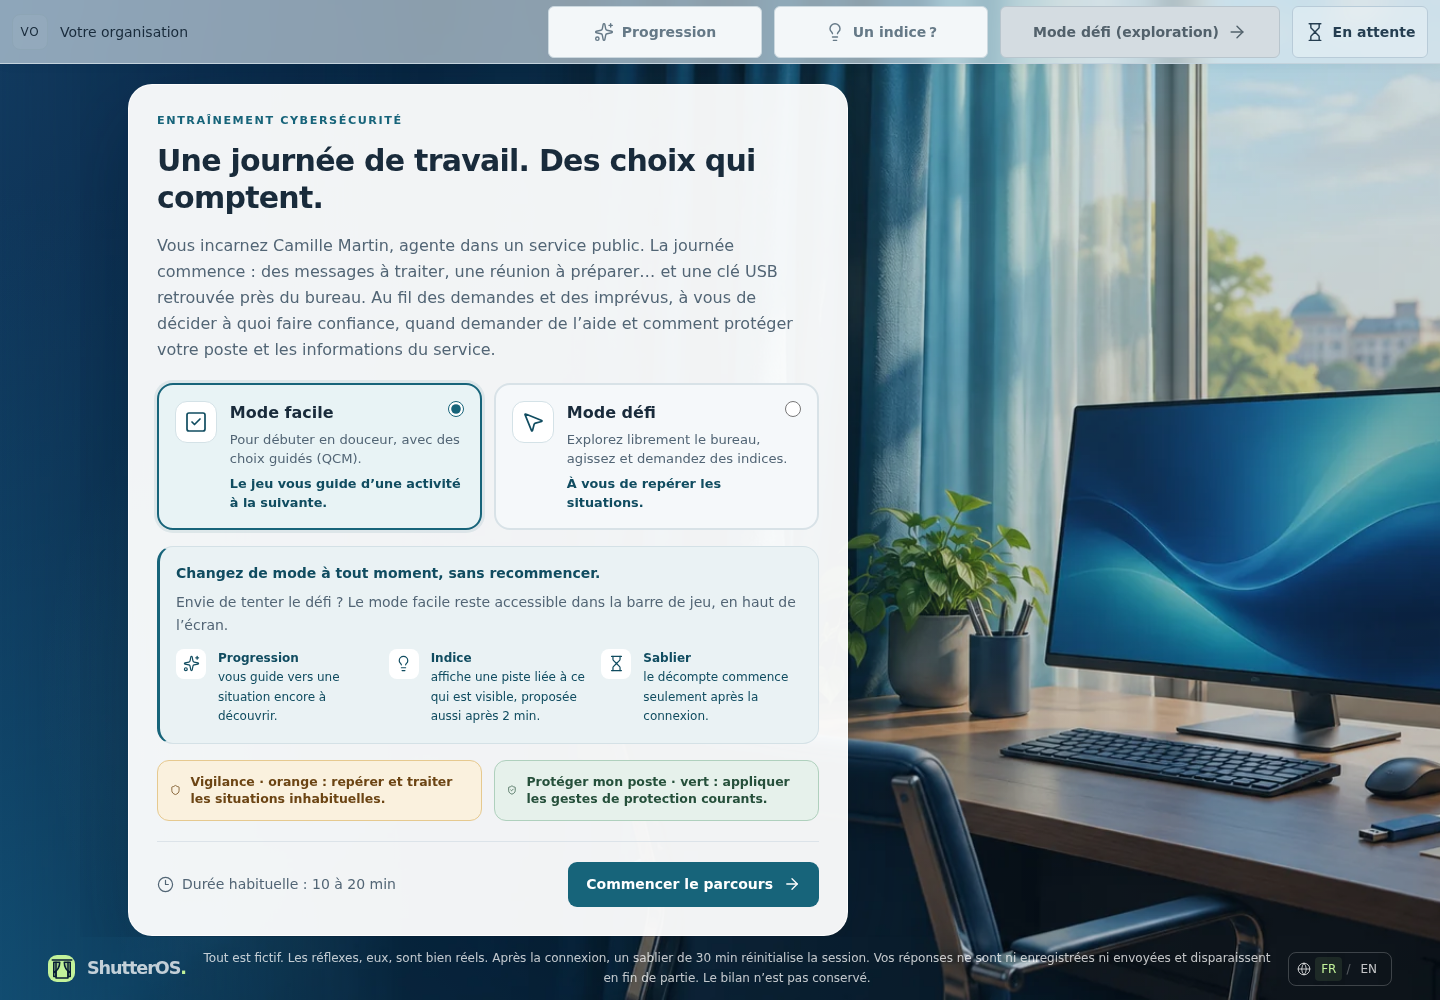
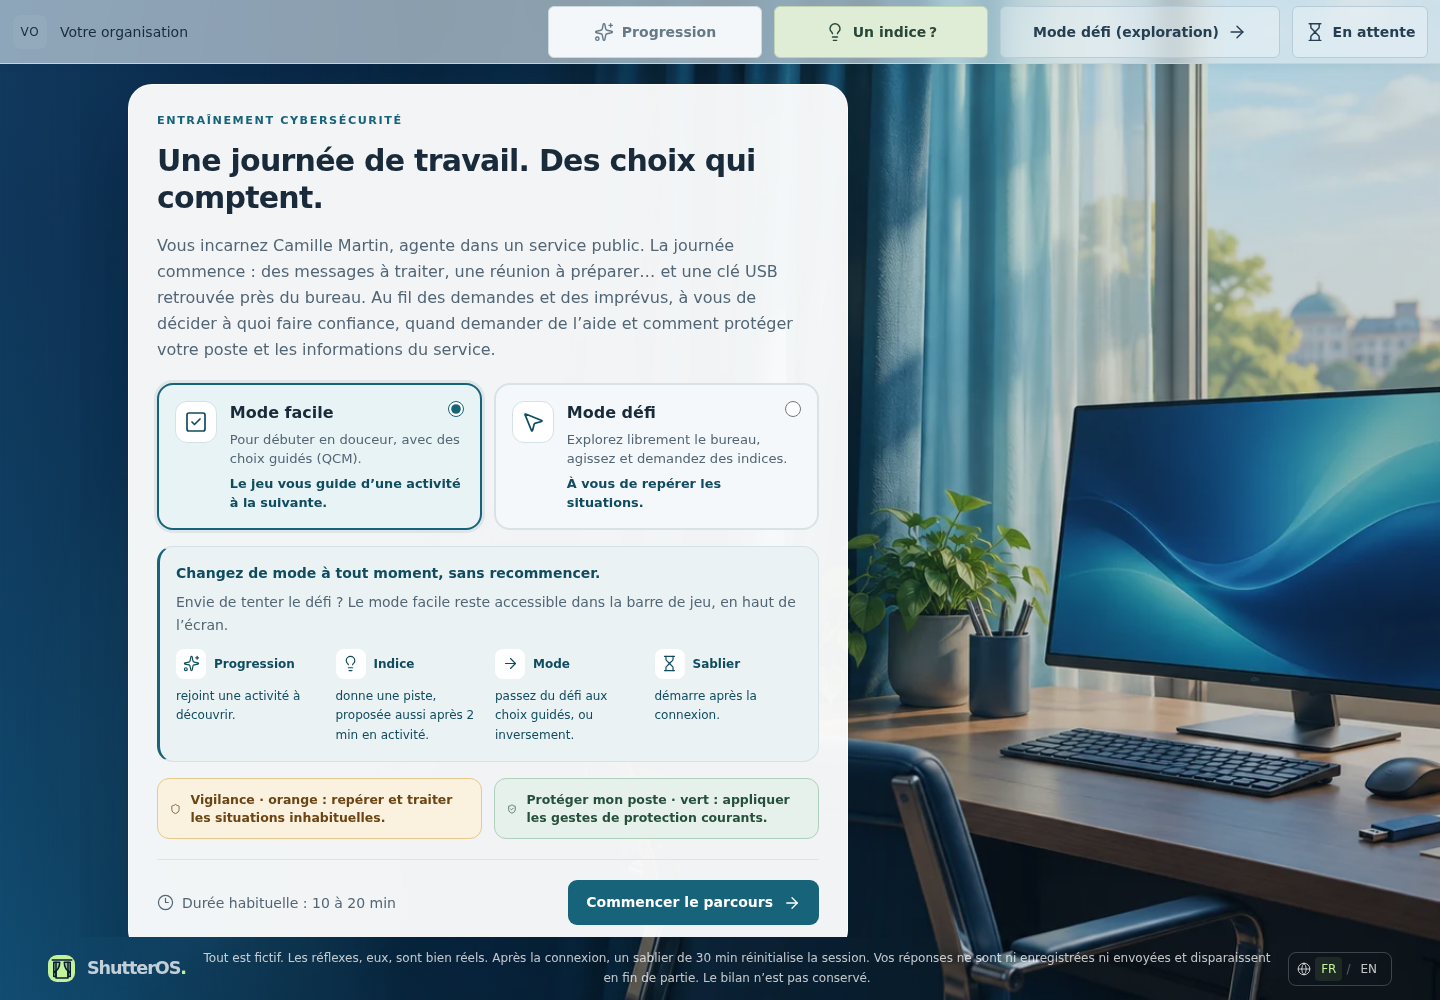
feat(onboarding): activate the game bar on the welcome screen

diff --git a/packages/components/src/screens/Welcome.svelte b/packages/components/src/screens/Welcome.svelte
@@ -6,6 +6,7 @@
   import type { Branding } from './branding';
   import GameTopbar from '../commons/GameTopbar.svelte';
   import OnboardingControls from '../commons/OnboardingControls.svelte';
+  import FloatingWindow from '../commons/FloatingWindow.svelte';
   import Icon from '../commons/Icon.svelte';
   import Language from '../commons/Language.svelte';
   import Brand from '../commons/Brand.svelte';
@@ -27,6 +28,19 @@
   } = $props();
   const i18n = getI18n();
   const copy = $derived(i18n.text);
+  const controlIcons = ['sparkles', 'light', 'arrow', 'hourglass'] as const;
+  let onboardingControls: { focusHint: () => void };
+  let hintVisible = $state(false);
+  let hintSeen = $state(false);
+
+  function toggleHint() {
+    hintVisible = !hintVisible;
+    hintSeen = true;
+  }
+  function minimizeHint() {
+    hintVisible = false;
+    onboardingControls.focusHint();
+  }
 
   function selectMode(mode: PlayMode) {
     dispatch({ type: 'set-mode', mode });
@@ -36,7 +50,14 @@
 <main class="welcome-screen wallpaper relative flex min-h-dvh flex-col overflow-hidden">
   <div class="wallpaper-orbit" aria-hidden="true"></div>
   {#snippet controls()}
-    <OnboardingControls mode={snapshot.mode} />
+    <OnboardingControls
+      bind:this={onboardingControls}
+      mode={snapshot.mode}
+      onMode={() => selectMode(snapshot.mode === 'guided' ? 'free' : 'guided')}
+      onHint={toggleHint}
+      {hintVisible}
+      {hintSeen}
+    />
   {/snippet}
   <GameTopbar
     {config}
@@ -47,98 +68,118 @@
   />
 
   <img class="welcome-hero" src={welcomeHero} alt="" aria-hidden="true" />
-  <div
-    class="welcome-body relative z-10 mx-auto grid w-full max-w-[1280px] flex-1 items-center px-5 py-5 sm:px-9 lg:grid-cols-[minmax(0,720px)_1fr] lg:px-12"
-  >
-    <section class="welcome-panel rounded-3xl p-5 sm:p-7">
-      <p class="eyebrow text-accent">{copy.welcome.eyebrow}</p>
-      <h1
-        class="mt-3 max-w-[680px] text-3xl leading-tight font-semibold tracking-tight sm:text-3xl"
-      >
-        {copy.welcome.title}
-      </h1>
-      <p class="text-muted mt-4 max-w-[650px] text-base leading-relaxed">
-        {copy.welcome.description(config.playerName)}
-      </p>
-      <div
-        class="mt-5 grid gap-3 sm:grid-cols-2"
-        role="radiogroup"
-        aria-label={copy.welcome.choose}
-      >
-        {#each ['guided', 'free'] as const as mode (mode)}
-          <label class="mode-card text-left" class:selected={snapshot.mode === mode}>
-            <input
-              class="mode-selection"
-              type="radio"
-              name="play-mode"
-              value={mode}
-              checked={snapshot.mode === mode}
-              onchange={() => selectMode(mode)}
-            />
-            <span class="mode-icon"
-              ><Icon name={mode === 'guided' ? 'checkbox' : 'cursor'} size={24} /></span
-            >
-            <strong
-              >{mode === 'guided' ? copy.welcome.guided.title : copy.welcome.free.title}</strong
-            >
-            <span
-              >{mode === 'guided'
-                ? copy.welcome.guided.description
-                : copy.welcome.free.description}</span
-            >
-            <small
-              >{mode === 'guided' ? copy.welcome.guided.detail : copy.welcome.free.detail}</small
-            >
-          </label>
-        {/each}
-      </div>
-
-      <aside
-        class="topbar-explainer mode-reassurance mt-4 rounded-2xl p-4"
-        aria-label={copy.welcome.controls.title}
-      >
-        <p class="text-sm font-semibold">{copy.welcome.switchTitle}</p>
-        <p class="text-muted mt-2 text-sm leading-relaxed">{copy.welcome.switchDetail}</p>
-        <div class="mt-3 grid gap-3 sm:grid-cols-3">
-          {#each copy.welcome.controls.items as item, index (item.title)}
-            <div class="flex gap-3">
-              <span class="explainer-icon"
-                ><Icon
-                  name={index === 0 ? 'sparkles' : index === 1 ? 'light' : 'hourglass'}
-                  size={17}
-                /></span
+  <div class="relative z-10 flex min-h-0 flex-1">
+    <div
+      class="welcome-body relative z-10 mx-auto grid w-full max-w-[1280px] flex-1 items-center px-5 py-5 sm:px-9 lg:grid-cols-[minmax(0,720px)_1fr] lg:px-12"
+    >
+      <section class="welcome-panel rounded-3xl p-5 sm:p-7">
+        <p class="eyebrow text-accent">{copy.welcome.eyebrow}</p>
+        <h1
+          class="mt-3 max-w-[680px] text-3xl leading-tight font-semibold tracking-tight sm:text-3xl"
+        >
+          {copy.welcome.title}
+        </h1>
+        <p class="text-muted mt-4 max-w-[650px] text-base leading-relaxed">
+          {copy.welcome.description(config.playerName)}
+        </p>
+        <div
+          class="mt-5 grid gap-3 sm:grid-cols-2"
+          role="radiogroup"
+          aria-label={copy.welcome.choose}
+        >
+          {#each ['guided', 'free'] as const as mode (mode)}
+            <label class="mode-card text-left" class:selected={snapshot.mode === mode}>
+              <input
+                class="mode-selection"
+                type="radio"
+                name="play-mode"
+                value={mode}
+                checked={snapshot.mode === mode}
+                onchange={() => selectMode(mode)}
+              />
+              <span class="mode-icon"
+                ><Icon name={mode === 'guided' ? 'checkbox' : 'cursor'} size={24} /></span
               >
-              <p class="text-xs leading-relaxed">
-                <strong class="block">{item.title}</strong>{item.detail}
-              </p>
-            </div>
+              <strong
+                >{mode === 'guided' ? copy.welcome.guided.title : copy.welcome.free.title}</strong
+              >
+              <span
+                >{mode === 'guided'
+                  ? copy.welcome.guided.description
+                  : copy.welcome.free.description}</span
+              >
+              <small
+                >{mode === 'guided' ? copy.welcome.guided.detail : copy.welcome.free.detail}</small
+              >
+            </label>
           {/each}
         </div>
-      </aside>
-      <div class="welcome-families mt-4 grid gap-3 sm:grid-cols-2">
-        <p class="family-note" data-family="vigilance">
-          <Icon name="shield" size={18} />{copy.welcome.families.vigilance}
-        </p>
-        <p class="family-note" data-family="protection">
-          <Icon name="secure" size={18} />{copy.welcome.families.protection}
-        </p>
-      </div>
-      {#if snapshot.reason === 'expired'}
-        <p class="welcome-reset mt-5 text-sm" role="status">
-          {copy.welcome.expired}
-        </p>
-      {/if}
-      <div class="welcome-start mt-5 border-t border-[var(--line)] pt-5">
-        <div class="flex flex-wrap items-center justify-between gap-4">
-          <span class="text-muted flex items-center gap-2 text-sm">
-            <Icon name="clock" size={17} />{copy.welcome.duration}
-          </span>
-          <button class="button button-primary ml-auto" onclick={() => dispatch({ type: 'begin' })}>
-            {copy.welcome.begin}<Icon name="arrow" size={18} />
-          </button>
+
+        <aside
+          class="topbar-explainer mode-reassurance mt-4 rounded-2xl p-4"
+          aria-label={copy.welcome.controls.title}
+        >
+          <p class="text-sm font-semibold">{copy.welcome.switchTitle}</p>
+          <p class="text-muted mt-2 text-sm leading-relaxed">{copy.welcome.switchDetail}</p>
+          <div class="mt-3 grid gap-3 sm:grid-cols-2 lg:grid-cols-4">
+            {#each copy.welcome.controls.items as item, index (item.title)}
+              <div>
+                <div class="mb-2 flex items-center gap-2">
+                  <span class="explainer-icon"
+                    ><Icon name={controlIcons[index] ?? 'help'} size={17} /></span
+                  >
+                  <strong class="text-xs">{item.title}</strong>
+                </div>
+                <p class="text-xs leading-relaxed">{item.detail}</p>
+              </div>
+            {/each}
+          </div>
+        </aside>
+        <div class="welcome-families mt-4 grid gap-3 sm:grid-cols-2">
+          <p class="family-note" data-family="vigilance">
+            <Icon name="shield" size={18} />{copy.welcome.families.vigilance}
+          </p>
+          <p class="family-note" data-family="protection">
+            <Icon name="secure" size={18} />{copy.welcome.families.protection}
+          </p>
         </div>
-      </div>
-    </section>
+        {#if snapshot.reason === 'expired'}
+          <p class="welcome-reset mt-5 text-sm" role="status">
+            {copy.welcome.expired}
+          </p>
+        {/if}
+        <div class="welcome-start mt-5 border-t border-[var(--line)] pt-5">
+          <div class="flex flex-wrap items-center justify-between gap-4">
+            <span class="text-muted flex items-center gap-2 text-sm">
+              <Icon name="clock" size={17} />{copy.welcome.duration}
+            </span>
+            <button
+              class="button button-primary ml-auto"
+              onclick={() => dispatch({ type: 'begin' })}
+            >
+              {copy.welcome.begin}<Icon name="arrow" size={18} />
+            </button>
+          </div>
+        </div>
+      </section>
+    </div>
+    {#if hintSeen}
+      <FloatingWindow
+        kind="hint"
+        title={copy.shell.guide}
+        icon="light"
+        isHidden={!hintVisible}
+        minimizeLabel={copy.guidance.minimize}
+        onMinimize={minimizeHint}
+        onClose={minimizeHint}
+        closeLabel={copy.challenge.hideHint}
+      >
+        <p class="hint-content" role="status">{copy.welcome.hint}</p>
+        <div class="px-4 pb-4 pt-2">
+          <button class="guidance-trigger" onclick={minimizeHint}>{copy.challenge.hideHint}</button>
+        </div>
+      </FloatingWindow>
+    {/if}
   </div>
   <footer
     class="welcome-footer relative z-10 flex flex-wrap items-center justify-between gap-4 px-5 py-3 text-xs text-white/75 sm:px-9 lg:px-12"

diff --git a/tests/e2e/onboarding.spec.ts b/tests/e2e/onboarding.spec.ts
@@ -31,6 +31,27 @@ for (const locale of ['fr', 'en'] as const) {
           .locator('.welcome-hero')
           .evaluate((image: HTMLImageElement) => image.naturalWidth),
       ).toBeGreaterThan(0);
+      await expect(
+        page.getByRole('button', { name: copy.welcome.controls.progress, exact: true }),
+      ).toBeDisabled();
+      const modeSwitch = page.locator('.onboarding-controls .finish-experience');
+      await expect(modeSwitch).toBeEnabled();
+      await modeSwitch.click();
+      await expect(page.getByRole('radio', { name: copy.welcome.free.title })).toBeChecked();
+      await page.getByRole('radio', { name: copy.welcome.guided.title }).check();
+      await expect(modeSwitch).toHaveText(copy.experience.free);
+      const welcomeHint = page.locator('.onboarding-controls button[aria-pressed]');
+      await welcomeHint.click();
+      const hintWindow = page.getByRole('dialog', { name: copy.shell.guide });
+      await expect(hintWindow).toContainText(copy.welcome.hint);
+      await page.keyboard.press('Escape');
+      await expect(hintWindow).toBeHidden();
+      await expect(welcomeHint).toBeFocused();
+      await expect(welcomeHint).toHaveText(copy.guidance.restore);
+      await welcomeHint.click();
+      await hintWindow.getByRole('button', { name: copy.guidance.minimize, exact: true }).click();
+      await expect(hintWindow).toBeHidden();
+      await expect(page.getByRole('heading', { name: copy.welcome.title })).toBeVisible();
       const controlsBefore = await page.locator('.session-controls').boundingBox();
       await page.clock.fastForward(31 * 60_000);
       await expect(page.getByRole('heading', { name: copy.welcome.title })).toBeVisible();

diff --git a/packages/core/src/data/fr.ts b/packages/core/src/data/fr.ts
@@ -20,6 +20,7 @@ export const fr = {
     switchTitle: 'Changez de mode à tout moment, sans recommencer.',
     switchDetail:
       'Envie de tenter le défi ? Le mode facile reste accessible dans la barre de jeu, en haut de l’écran.',
+    hint: 'Choisissez le mode qui vous convient, puis cliquez sur « Commencer le parcours ».',
     begin: 'Commencer le parcours',
     duration: 'Durée habituelle : 10 à 20 min',
     expired: 'Le temps de la session est écoulé. Les réponses locales ont été effacées.',
@@ -34,14 +35,15 @@ export const fr = {
       progress: 'Progression',
       waiting: 'En attente',
       items: [
-        { title: 'Progression', detail: 'vous guide vers une situation encore à découvrir.' },
+        { title: 'Progression', detail: 'rejoint une activité à découvrir.' },
         {
           title: 'Indice',
-          detail: 'affiche une piste liée à ce qui est visible, proposée aussi après 2 min.',
+          detail: 'donne une piste, proposée aussi après 2 min en activité.',
         },
+        { title: 'Mode', detail: 'passez du défi aux choix guidés, ou inversement.' },
         {
           title: 'Sablier',
-          detail: 'le décompte commence seulement après la connexion.',
+          detail: 'démarre après la connexion.',
         },
       ],
     },

diff --git a/packages/core/src/data/en.ts b/packages/core/src/data/en.ts
@@ -22,6 +22,7 @@ export const en: Catalog = {
     switchTitle: 'Switch modes at any time, without starting over.',
     switchDetail:
       'Feel like trying the challenge? Easy mode is always available in the game bar at the top of the screen.',
+    hint: 'Choose the mode that suits you, then click “Start the journey”.',
     begin: 'Start the journey',
     duration: 'Typical duration: 10 to 20 min',
     expired: 'The session time ended. Local answers have been erased.',
@@ -36,14 +37,15 @@ export const en: Catalog = {
       progress: 'Progress',
       waiting: 'Waiting',
       items: [
-        { title: 'Progress', detail: 'guides you to a situation you have not explored yet.' },
+        { title: 'Progress', detail: 'opens an activity you have yet to explore.' },
         {
           title: 'Hint',
-          detail: 'shows a clue about what is currently visible, also offered after 2 min.',
+          detail: 'offers a clue, also suggested after 2 min in an activity.',
         },
+        { title: 'Mode', detail: 'switch between exploration and guided choices.' },
         {
           title: 'Hourglass',
-          detail: 'the countdown only starts after sign-in.',
+          detail: 'starts counting down after sign-in.',
         },
       ],
     },

diff --git a/packages/components/src/commons/OnboardingControls.svelte b/packages/components/src/commons/OnboardingControls.svelte
@@ -9,15 +9,17 @@
     onHint,
     hintVisible = false,
     hintSeen = false,
-    hintDisabled = true,
   }: {
     mode: PlayMode;
     onMode?: () => void;
     onHint?: () => void;
     hintVisible?: boolean;
     hintSeen?: boolean;
-    hintDisabled?: boolean;
   } = $props();
+  let hintButton: HTMLButtonElement;
+  export function focusHint() {
+    hintButton?.focus({ preventScroll: true });
+  }
   const i18n = getI18n();
   const copy = $derived(i18n.text);
 </script>
@@ -28,9 +30,10 @@
       <Icon name="sparkles" size={20} /><span>{copy.welcome.controls.progress}</span>
     </button>
     <button
+      bind:this={hintButton}
       class="guidance-trigger"
       class:offered={hintVisible}
-      disabled={hintDisabled}
+      disabled={!onHint}
       aria-pressed={hintVisible}
       onclick={onHint}
     >

diff --git a/packages/components/src/screens/Login.svelte b/packages/components/src/screens/Login.svelte
@@ -94,7 +94,6 @@
       onHint={toggleHint}
       {hintVisible}
       hintSeen={showHelp || hintReported}
-      hintDisabled={false}
     />
   {/snippet}
   <GameTopbar

diff --git a/docs/user-guide.fr.md b/docs/user-guide.fr.md
@@ -15,6 +15,8 @@ Utiliser le post-it pour entrer dans la simulation n’est pas une faute : il il
 
 Les fenêtres **Vigilance** invitent à examiner une situation ; celles portant **Protéger mon poste** proposent des gestes de sécurisation. Les libellés accompagnent les couleurs : le jeu ne demande pas de deviner la fonction d’une fenêtre.
 
+Dès l’accueil, le bouton de mode de la barre de jeu et les cartes de sélection restent synchronisés. « Un indice ? » rappelle comment commencer ; « Progression » reste désactivé avant la connexion.
+
 ## Trouver son chemin
 
 La barre de jeu affiche les activités restantes, **Un indice ?**, le changement de mode et le temps disponible. Les commandes sans effet à l’étape courante sont désactivées. Depuis le bureau, le compteur permet de rejoindre la prochaine activité sans révéler son indice.

diff --git a/docs/user-guide.md b/docs/user-guide.md
@@ -15,6 +15,8 @@ Using the sticky note to enter the simulation is not a player mistake: it illust
 
 Windows labelled **Vigilance** ask you to examine a situation; **Protect my workstation** windows offer protective actions. Labels accompany the colours so you do not need to guess a window’s purpose.
 
+On the welcome screen, the game bar mode button and the selection cards stay in sync. “Need a hint?” explains how to begin; “Progress” stays disabled before sign-in.
+
 ## Finding your way
 
 The game bar shows remaining activities, **Need a hint?**, the route switch and time available. Controls that do not apply to the current step are disabled. From the desktop, the activity counter can take you to the next activity without revealing its hint.
